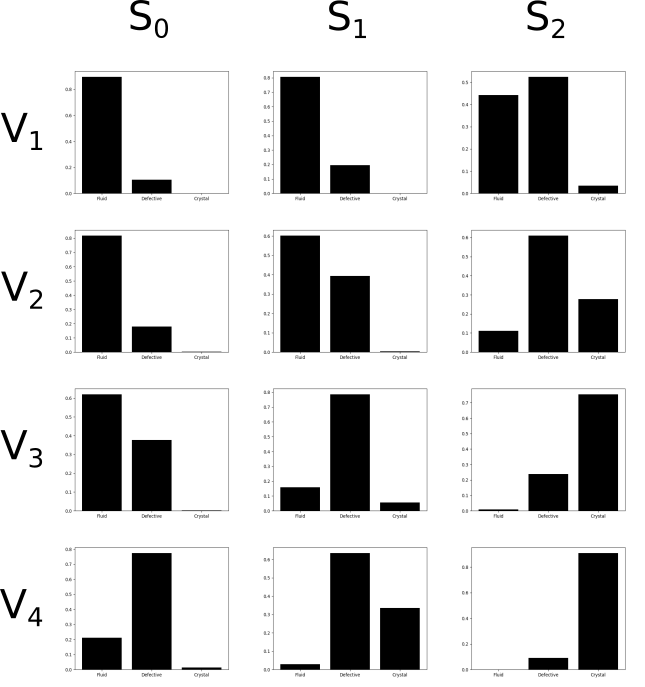
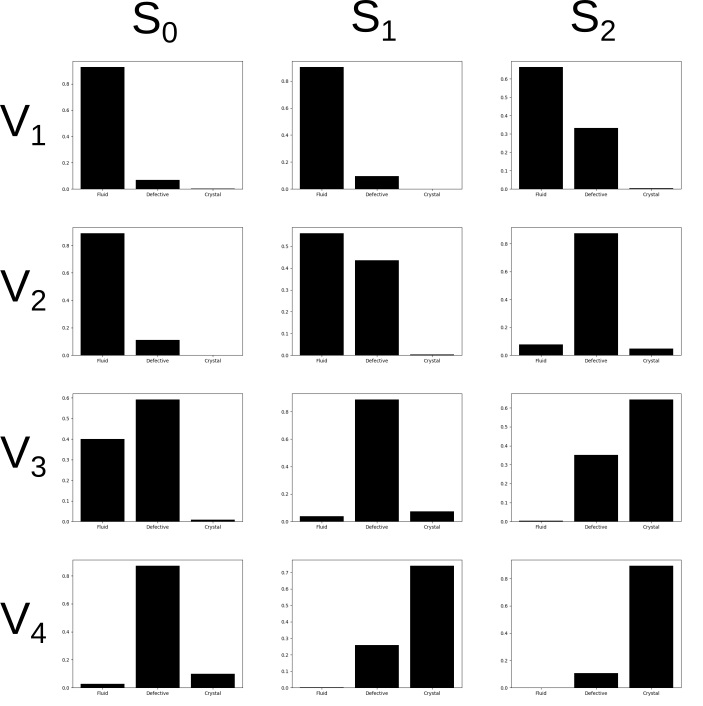
DNN test added

diff --git a/SNN/SNN.py b/SNN/SNN.py
@@ -6,6 +6,7 @@ from tensorflow.keras import layers
 from keras.models import Sequential
 from keras.layers import Dense, SimpleRNN, Input, Lambda, LSTM
 import tensorflow_probability as tfp
+import matplotlib.pyplot as plt
 from CNN.CNN import *
 
 import pandas as pd
@@ -170,7 +171,7 @@ class SNN():
 
 		# Create hidden layers with weight uncertainty 
 		#using the DenseVariational layer.
-		for units in [16,32]:
+		for units in [16,32,64]:
 			features = layers.Dense(units=units,activation="sigmoid")(features)
 			featrues = layers.Dropout(0.2)
 
@@ -220,17 +221,13 @@ class SNN():
 			features = layers.Dense(units=units,activation="sigmoid")(features)
 			featrues = layers.Dropout(0.2)
 
-		for units in [32,64]:
-			features = tfp.layers.DenseVariational(
-				units=units,
+		# The output is deterministic: a single point estimate.
+		outputs = tfp.layers.DenseVariational(
+				units = 3,
 				make_prior_fn=self.prior,
 				make_posterior_fn=self.posterior,
-				activation="sigmoid",
+				activation="softmax",
 				)(features)
-			featrues = layers.Dropout(0.2)
-
-		# The output is deterministic: a single point estimate.
-		outputs = layers.Dense(3, activation='softmax')(features)
 
 		model = keras.Model(inputs=inputs, outputs=outputs)
 
@@ -250,7 +247,7 @@ class SNN():
 		return model
 
 
-	def trainSNN(self,PATH,model,step,epochs=10,batch=16,plot=False):
+	def trainSNN(self,PATH,model,step,epochs=10,batch=1,plot=True):
 		'''
 		A function that trains a SNN given the model
 		and the PATH of the data set.
@@ -291,8 +288,8 @@ class SNN():
 
 		seed(1)
 
-		drop_Si=True
-		drop_So=False
+		drop_Si=False
+		drop_So=True
 
 
 		if drop_Si:
@@ -338,28 +335,34 @@ class SNN():
 					axis=1)
 		dataset.drop(columns=['index','level_0'],inplace=True)
 
+		bars = ['Fluid','Defective','Crystal']
+		x_pos = np.arange(len(bars))
+		plt.yticks(color='black')
+		fig_path = './Results/DS-Hist/probabilities/100s/MVR/Drop'
+		print('Calculating DS transition probabilities...........')
 		for v in [1,2,3,4]:
 			for si in [0,1,2]:
 				example_dict = {'Si': np.array([si]),
 				                'V':np.array([v])}
 				c = [0,0,0]
+				plt.xticks(x_pos, bars, color='black')
+				fig_name = fig_path+'MVRDS-L-S'+str(si)+'-V'+str(v)+'.png'
 				for index, row in dataset.iterrows():
 					if row['V'] == v and row['Si'] == si:
-						if row['So'] == 0:
-							c[0] += 1
-						elif row['So'] == 1:
-							c[1] += 1
-						else:
-							c[2] += 1
+						c[row['So']] += 1
+				plt.bar(x_pos,c,color='red')
+				plt.savefig(fig_name)
+				plt.clf()
 				print(example_dict)
 				print(c)
-				print(sum(c))
+				print(sum(c))	
+			
 
 		#train_labels.drop(columns=['index'],inplace=True)
 		#train_features.drop(columns=['index'],inplace=True)
 
-		print(train_features)
-		print(train_labels)
+		#print(train_features)
+		#print(train_labels)
 		train_labels.drop(columns=['level_0'],inplace=True)
 		train_features.drop(columns=['level_0'],inplace=True)
 
@@ -368,7 +371,7 @@ class SNN():
 
 		train_labels = np.array(train_labels,dtype=float)
 		train_labels_arr = np.zeros((len(train_labels),3),dtype=int)
-		print(train_labels)
+		#print(train_labels)
 		for i in range(len(train_labels)):
 			index = int(train_labels[i][0])
 			train_labels_arr[i][index] = 1 
@@ -379,7 +382,7 @@ class SNN():
 			train_labels_arr,
 			epochs=epochs,
 			batch_size=batch,
-			validation_split=0.1,
+			validation_split=0.2,
 			verbose=2
 			)
 
@@ -526,27 +529,25 @@ class SNN():
 		'''
 
 		out = model.predict(inp)
-		#x = [inp]
-		#out =[inp[0][0][0]]
+		return out
 
-		flag = False
+	def trajectory(self,model,init,length):
+		'''
+		Function that runs SNN.
+		Args:
+			-model: model to obtain probabilities from
+			-inp: dict containing input features
+		Returns:
+			-trajectory: list with predicted trajectories.
+		'''
 
-		if flag:
-			for i in range(length):
-				pred = model.predict(inp)
-
-				# Find index of maximum value from 2D numpy array
-				result = np.where(pred == np.amax(pred))
-				# zip the 2 arrays to get the exact coordinates
-				listOfCordinates = list(zip(result[0], result[1]))
-				index = listOfCordinates[0][1]
-				out.append(index)
-
-				time_stamp += t_step
-				new = [[out[-1],time_stamp,vol_lvl]]
-				inp = np.append(inp,np.reshape(new,(1,3,1)),axis=2)
-				inp = np.delete(inp,0,axis=2)
-				inp = np.reshape(inp,(1,3,step))
-				x.append(inp)
-		
-		return out#, x
+		trajectory = []
+		for i in range(length):
+			print(init)
+			probs = self.runSNN(model,init)
+			cat_dist = tfp.distributions.Categorical(probs=probs[0])		
+			trajectory.append(int(cat_dist.sample(1)[0]))
+			init['Si'] = np.array([trajectory[-1]])
+			#init['V'] = np.array([randint(1,4)])
+			#init['V'] = np.array([v[i]])
+		return trajectory

diff --git a/main.py b/main.py
@@ -29,14 +29,14 @@ step = 1
 
 #Create the models
 cnn_model = img_class.createCNN(summary=False)
-#snn_model = trayectory.createDNN(step,summary=False)
+snn_model = trayectory.createDNN(step,summary=True)
 #snn_model = trayectory.createCSNN(step,summary=True)
-snn_model = trayectory.createDSNN(step,summary=True)
+#snn_model = trayectory.createDSNN(step,summary=True)
 
 
 #Train the models
 cnn_training_flag = False
-snn_training_flag = True
+snn_training_flag = False
 
 if cnn_training_flag:
 	weigth_file = save_model_path+cnn_weights_name+'.h5'
@@ -49,7 +49,7 @@ if snn_training_flag:
 	weigth_file = save_model_path+snn_weights_name+'.h5'
 	if os.path.isfile(weigth_file):
 		os.remove(weigth_file)
-	trayectory.trainSNN(snn_ds_path,snn_model,step,epochs=20)
+	trayectory.trainSNN(snn_ds_path,snn_model,step,epochs=50,batch=5)
 	#trayectory.trainSNNsingleFeat(snn_ds_path,snn_model,step,epochs=20)
 	aux.saveWeights(snn_model,save_model_path,snn_weights_name)
 
@@ -134,7 +134,7 @@ if trans_prob_DNN:
 			plt.clf()
 
 ###########Generate transition probabilities############################
-trans_prob_SNN = True
+trans_prob_SNN = False
 
 if trans_prob_SNN:
 	n = 500
@@ -165,6 +165,21 @@ if trans_prob_SNN:
 
 
 #Main Code: add any functionalities here.
+#Run the CNN to get inital step
+img_path = './InitialStates/test.png'
+#img_path = './InitialStates/4V-5tray-99step10s.png'
+img_batch = aux.preProcessImg(img_path)
+
+S0, _ = img_class.runCNN(cnn_model,img_batch)
+v = 4
+
+init_feat = {'Si': np.array([S0]),
+			 'V':np.array([v])}
+
+pred_traj = trayectory.trajectory(snn_model,init_feat,10)
+
+print(pred_traj)
+
 loop_flag = False
 
 if loop_flag:
